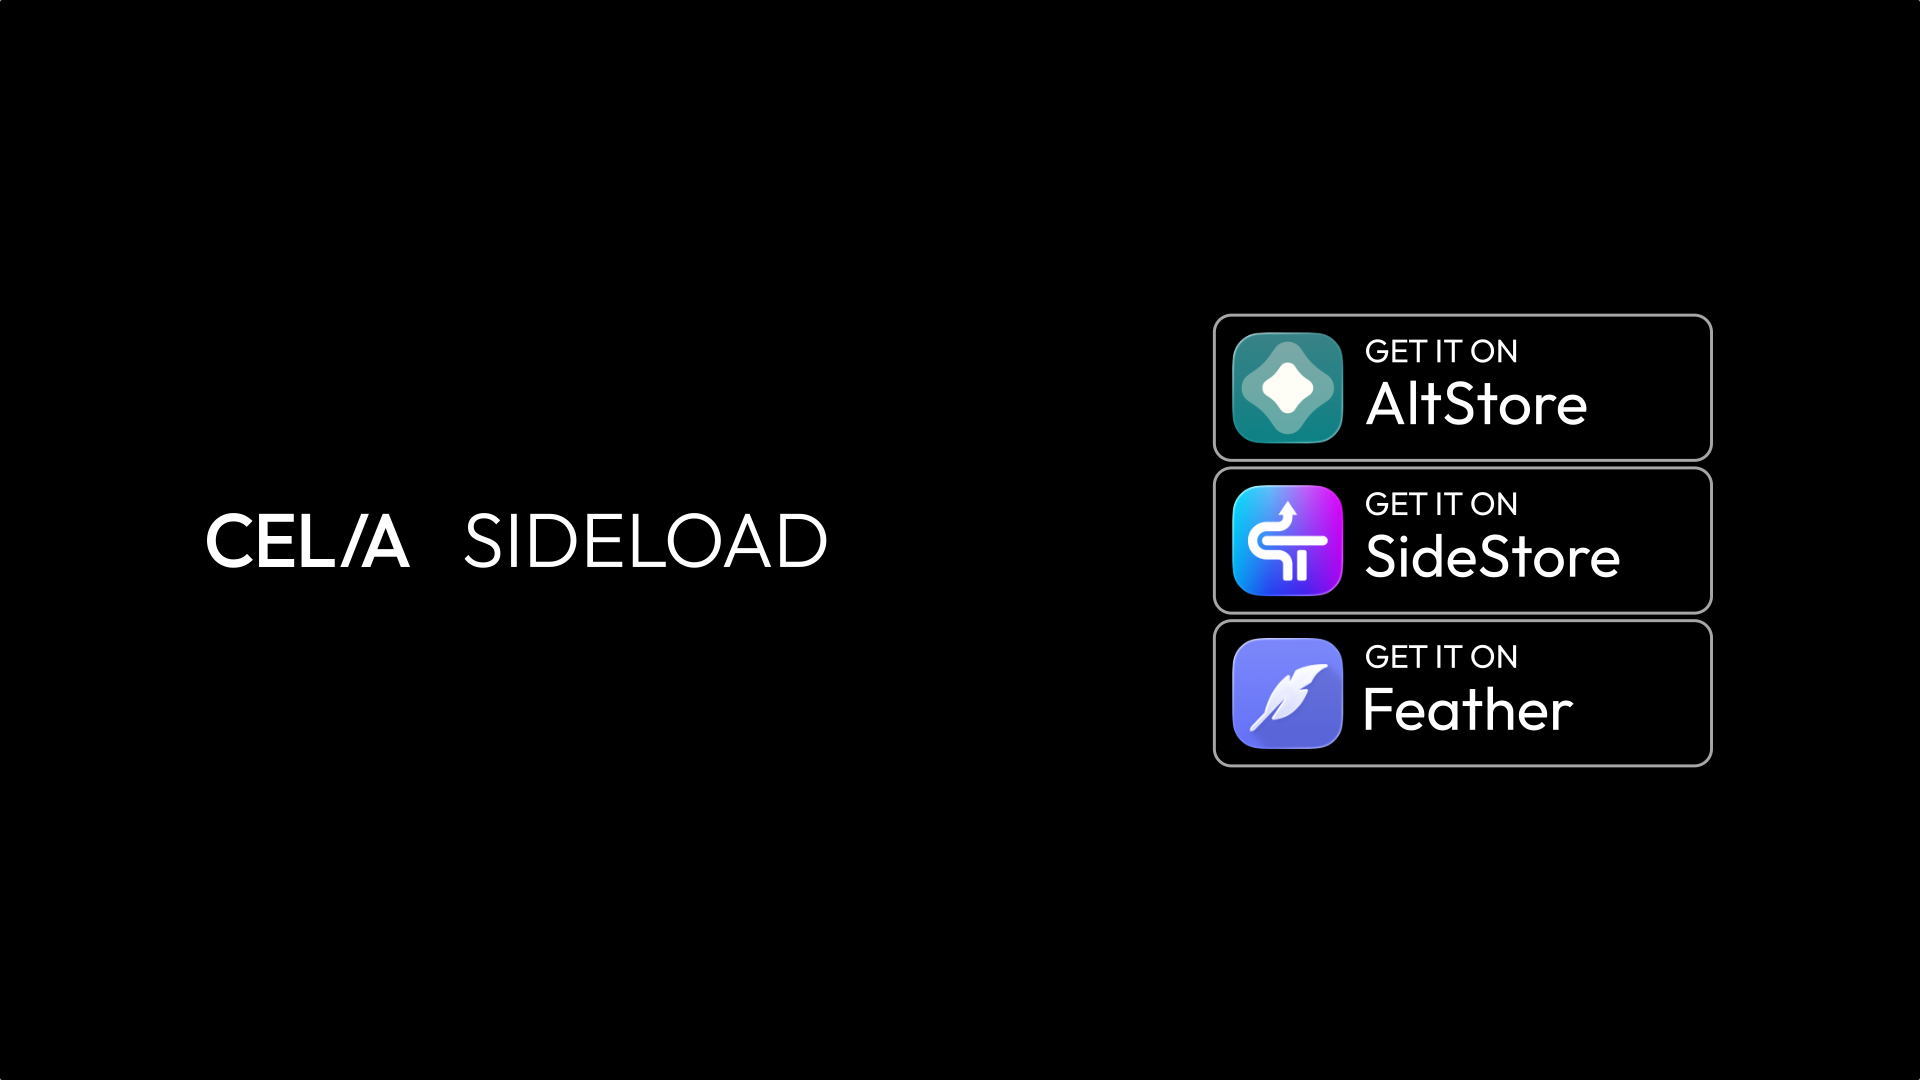
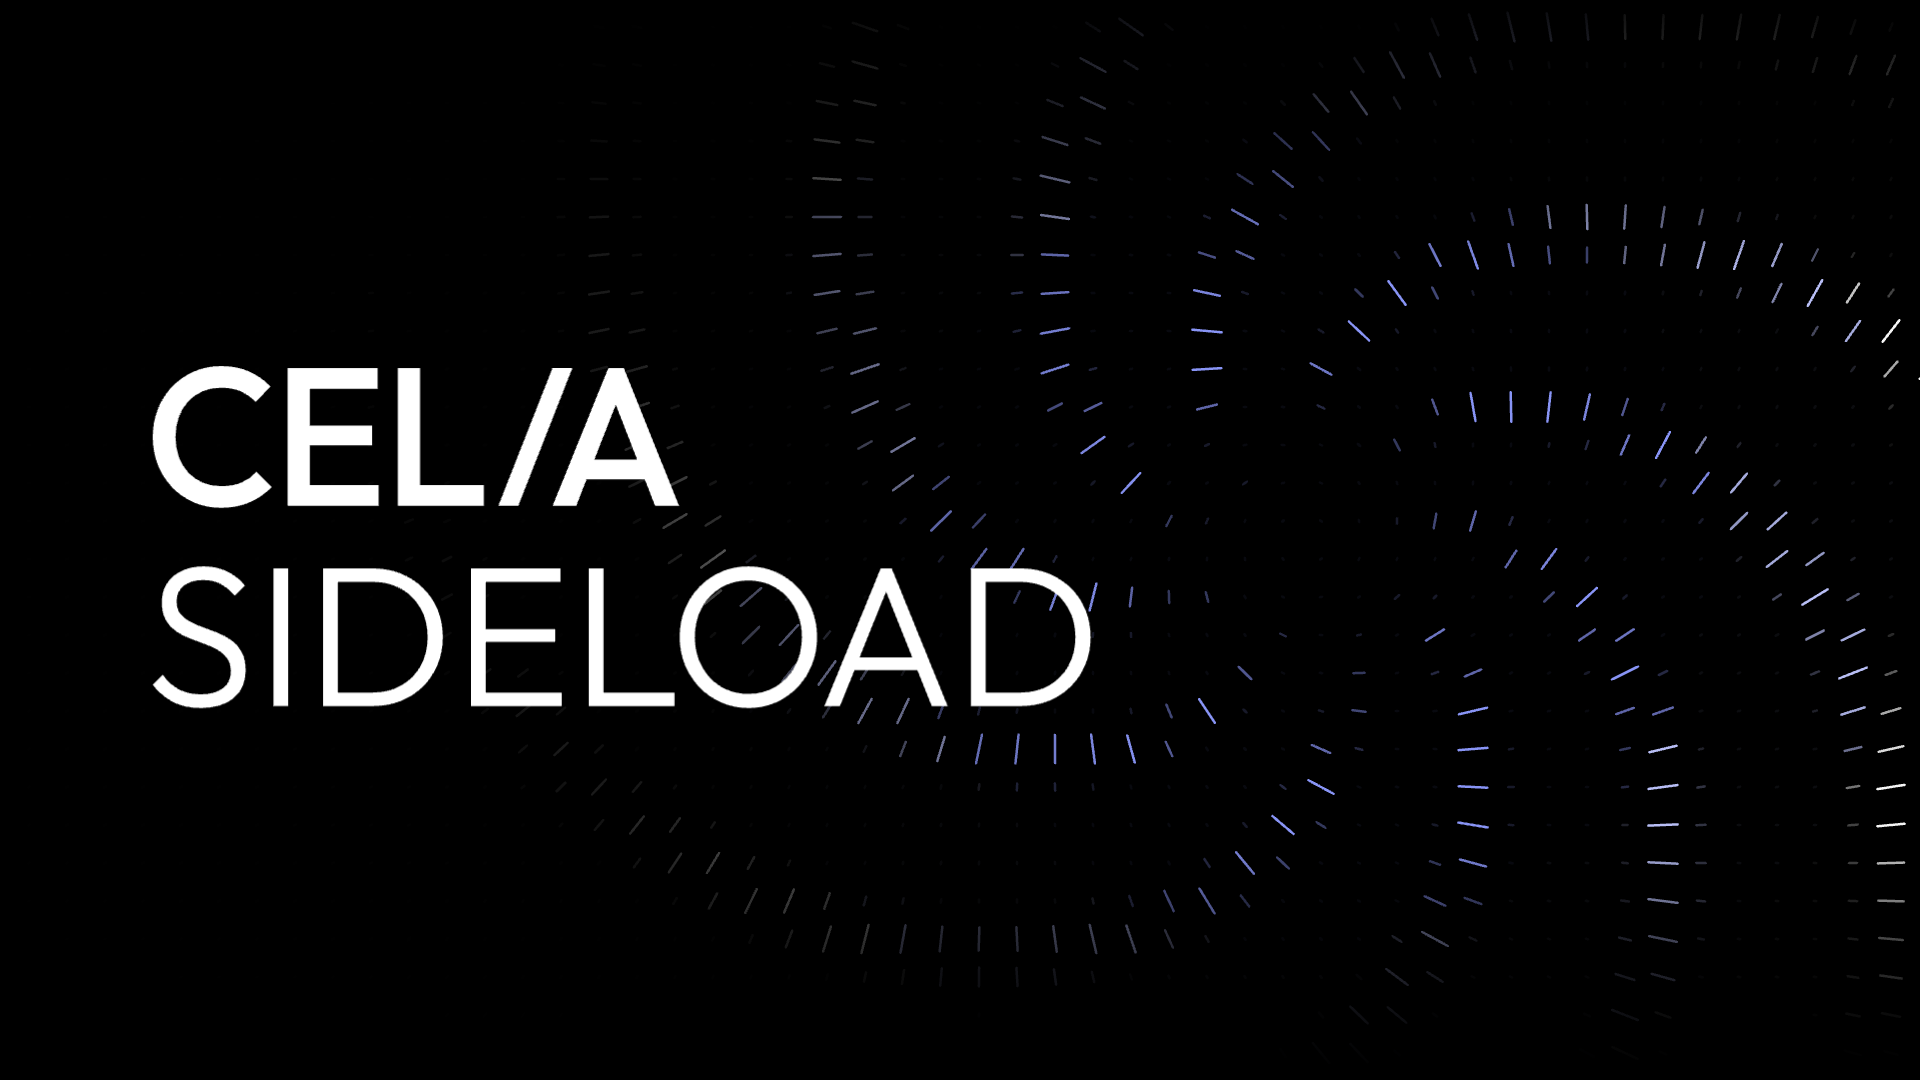
feat: refresh social preview image for the new design

Changed region(s): [[0.0625, 0.3361, 0.5938, 0.6722], [0.625, 0.275, 0.9062, 0.7333]]

diff --git a/index.html b/index.html
@@ -37,7 +37,7 @@
     <meta property="og:image:height" content="1080" />
     <meta
       property="og:image:alt"
-      content="CELIA Sideload with AltStore, SideStore, and Feather badges"
+      content="CEL/A Sideload wordmark beside a vortex of thin strokes"
     />
     <meta name="twitter:card" content="summary_large_image" />
     <title>Sideload / CELIA</title>
